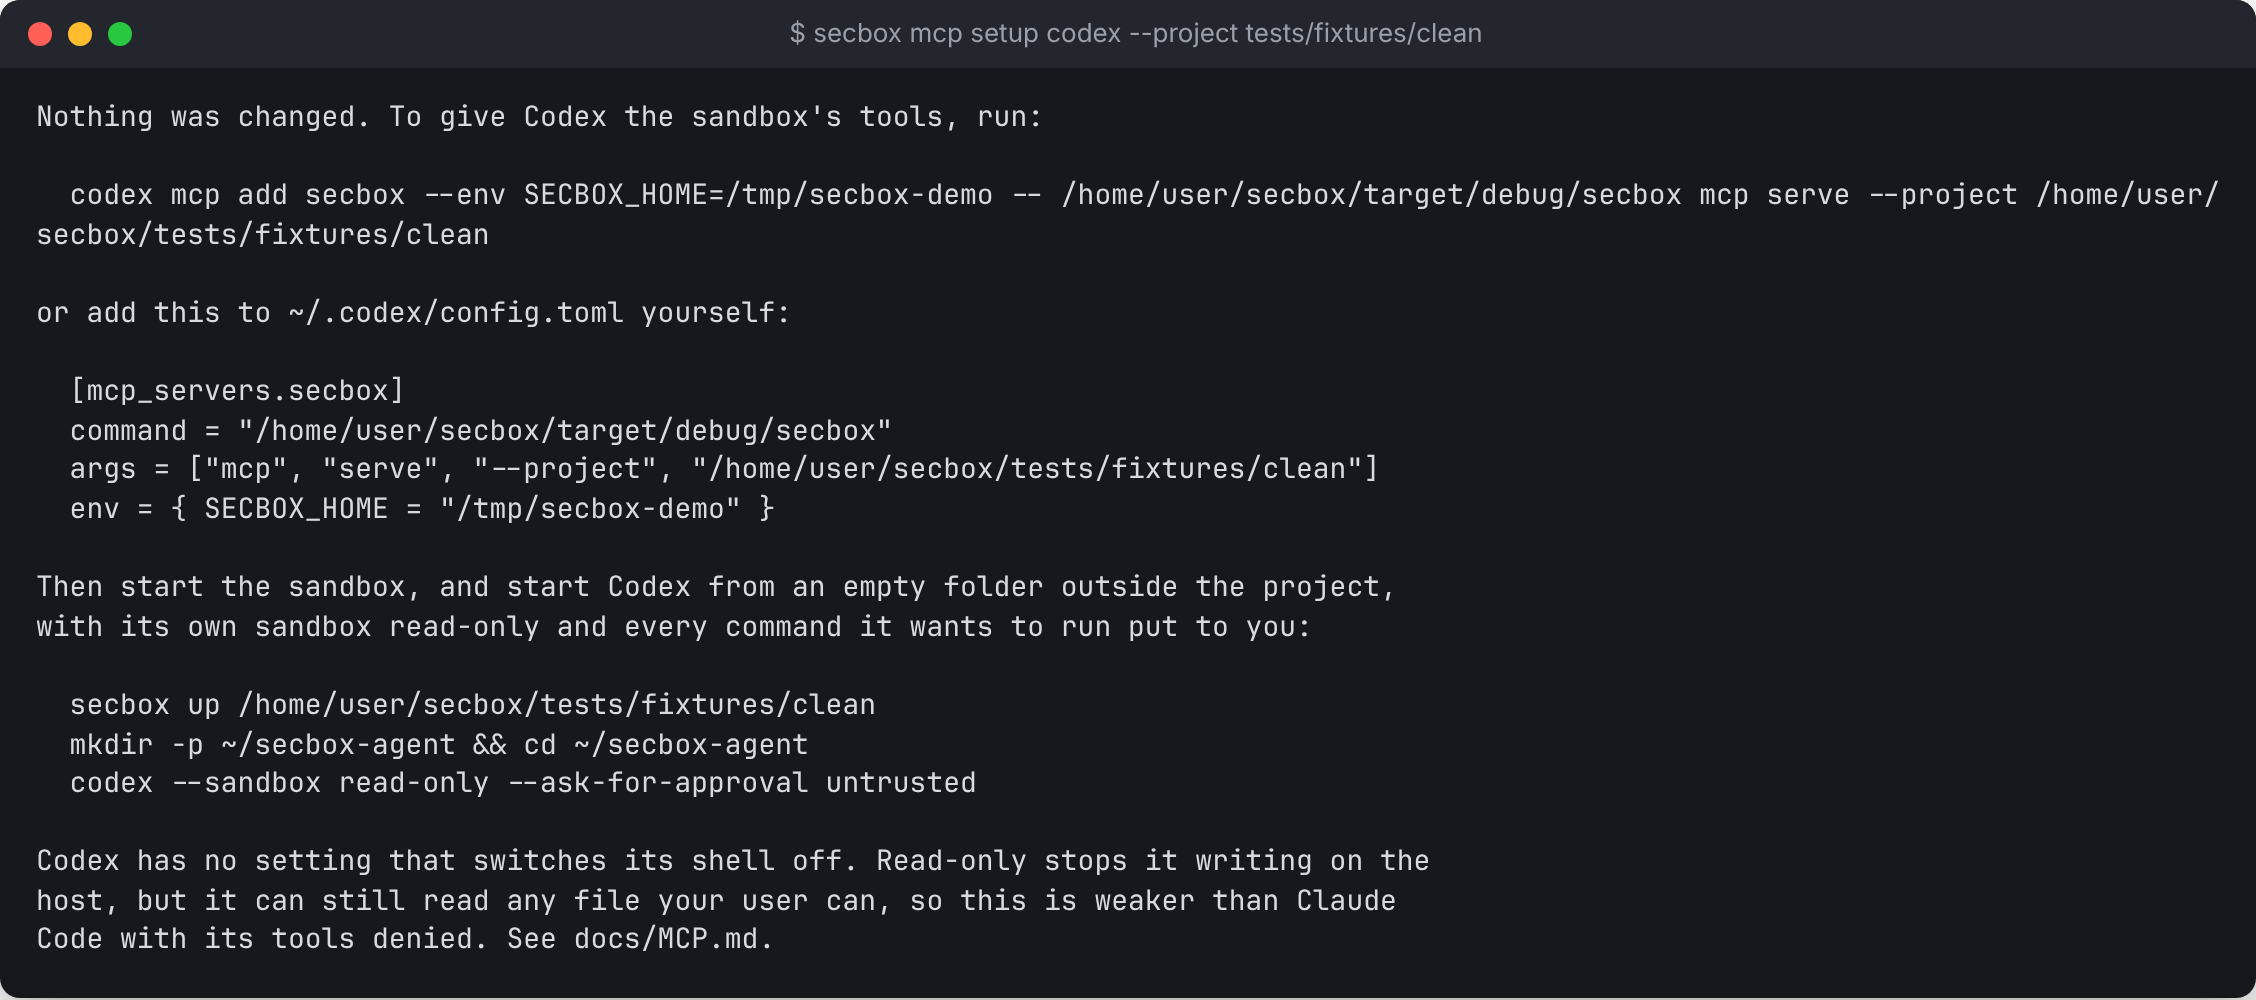
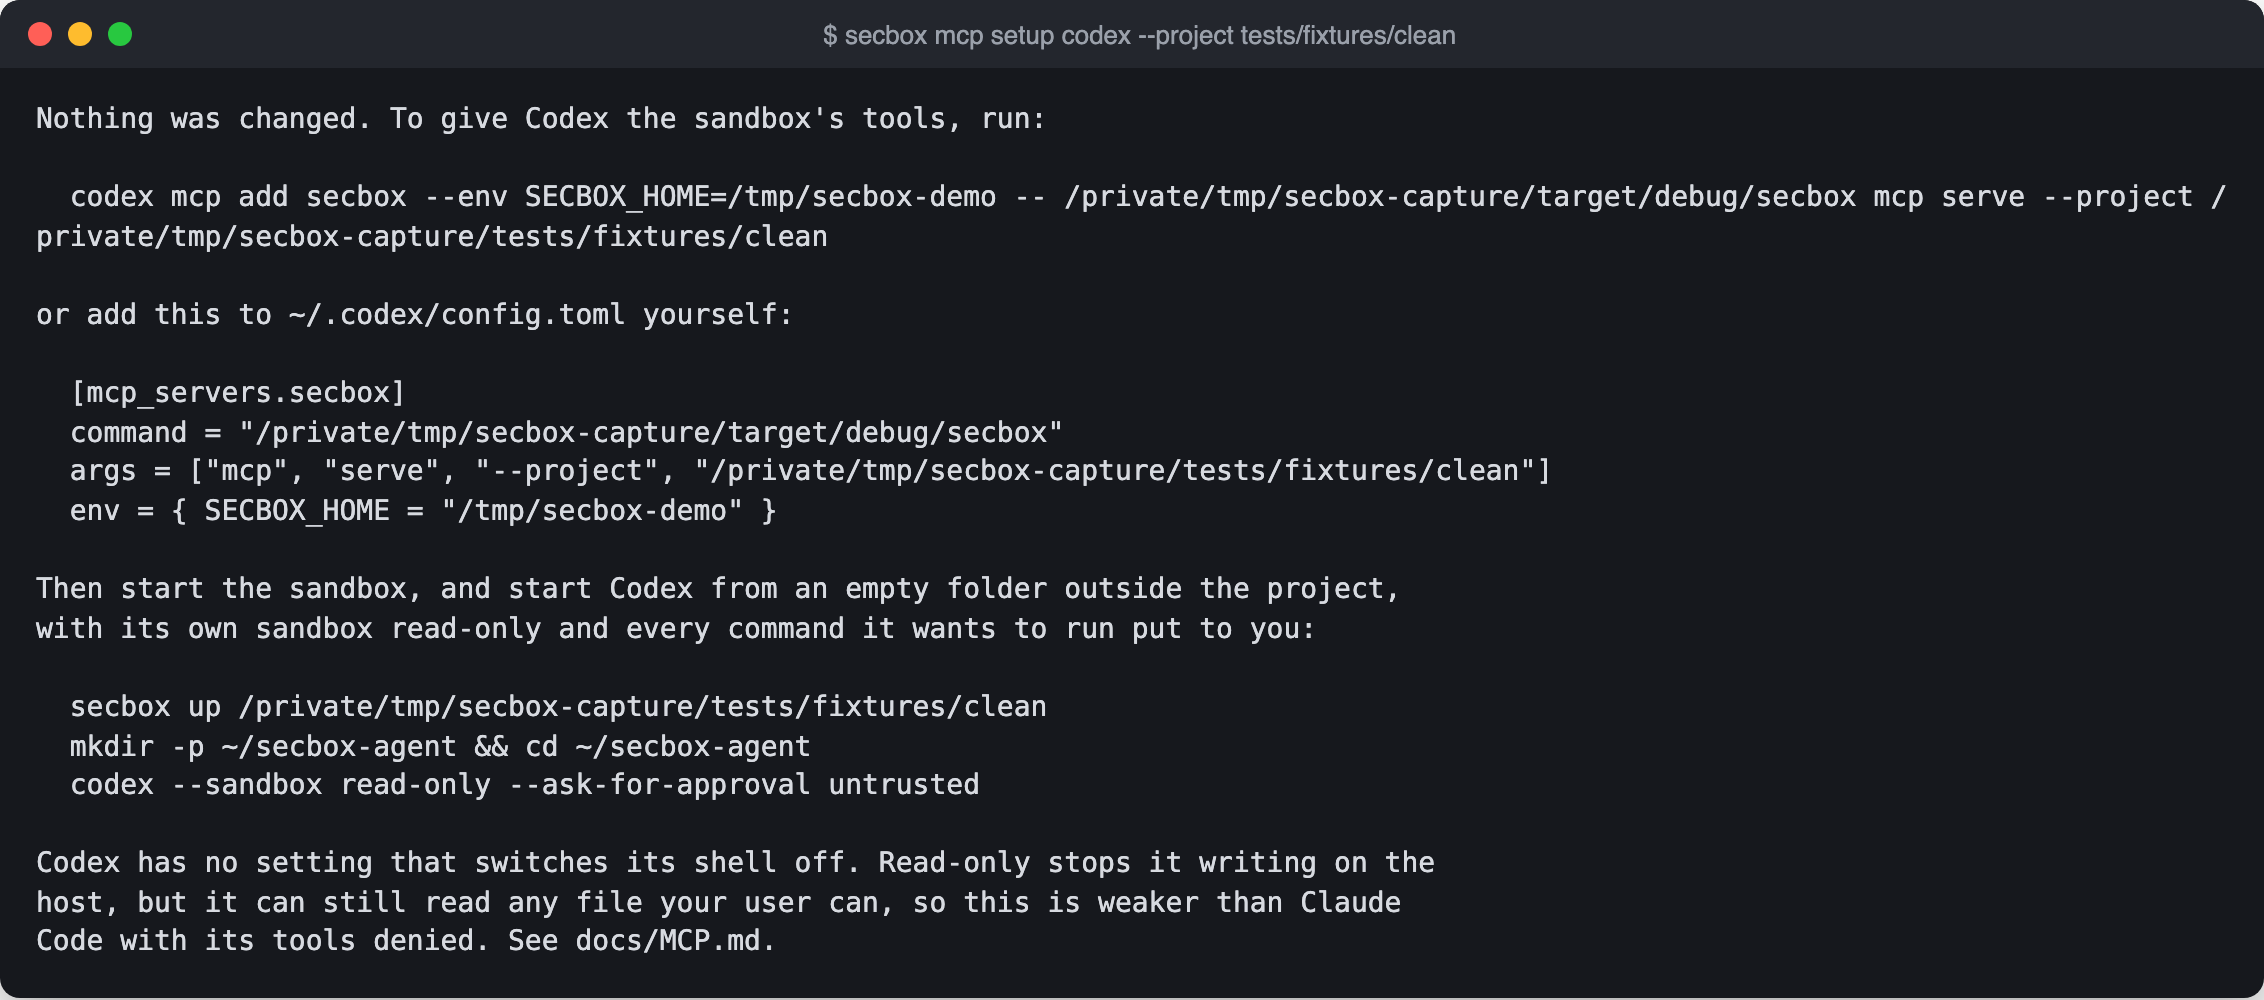
Retake the documentation screenshots after the wording fix
Window screenshots: retake all seven from the preview at 1360 wide and
device scale 1. The three that show where secrets could go now say "this
host, and nowhere else". The other four came out byte-identical.

Terminal screenshots: regenerate all with capture.py. They now show "1
service", the redesigned full-screen interface and the current command
list. These were captured on a Mac, not Linux as before, so the doctor
shot now passes its hypervisor check.

Update the captions those images made false: three in terminal-ui.md
still said "before the redesign", and quickstart.md said the doctor shot
came from Linux without KVM.

No code changed.

Claude-Session: https://claude.ai/code/session_016Qb8hpzUSgd3yFJHi7zi5a

diff --git a/guide/src/guides/terminal-ui.md b/guide/src/guides/terminal-ui.md
@@ -102,17 +102,17 @@ A file that is not shown says why: it looks like it holds a secret, or it is bin
 
 `m` commits every change, under your own Git name, and asks for the message. `g` runs any Git command inside the sandbox, with quotes read as a shell reads them and nothing expanded. `p` pulls and `P` pushes the current branch through the daemon, with your SSH key on this machine. The key never enters the sandbox. If uncommitted changes stop a pull, the box offers to stash them, pull and put them back: `y` agrees, and anything else leaves them alone. A long answer scrolls with up and down, and any other key closes the box.
 
-![The Review panel, before the redesign](../images/cli/tui-review.png)
+![The Changes tab, before comparing](../images/cli/tui-review.png)
 
 ## Network
 
-![The Traffic panel, before the redesign](../images/cli/tui-traffic.png)
+![The Network tab, with no engine to ask, so it shows an error](../images/cli/tui-traffic.png)
 
 Pressing `a` on a blocked hostname asks for Touch ID on a Mac before anything is saved or restarted.
 
 ## Secrets
 
-![The Secrets panel, before the redesign](../images/cli/tui-secrets.png)
+![The Secrets tab, with no secrets recorded](../images/cli/tui-secrets.png)
 
 Up and down choose a secret. Enter sets a value for an empty name or replaces a stored one, and `a` adds a new name. You type the value twice and see only dots, then tick the services that may read it with Space. Nothing here can show a stored value. The value goes through the daemon into your keychain, and a running sandbox gets it on its next start. The list itself reads the same metadata as `secbox secrets list` and never opens the keychain. Names added from a template such as `.env.example` that have no value yet show in amber as `empty / not set yet`.
 

diff --git a/guide/src/start/quickstart.md b/guide/src/start/quickstart.md
@@ -14,7 +14,7 @@ secbox doctor
 
 ![secbox doctor output: each check with ok, warn or fail, and a next step under each problem](../images/cli/doctor.png)
 
-This was captured on a Linux machine without KVM, so the hypervisor line fails. On a Mac with Apple Silicon it says `ok`.
+This was captured on a Mac with Apple Silicon. On Linux without KVM, the hypervisor line fails and says what to do next.
 
 ### Check a risky project
 
